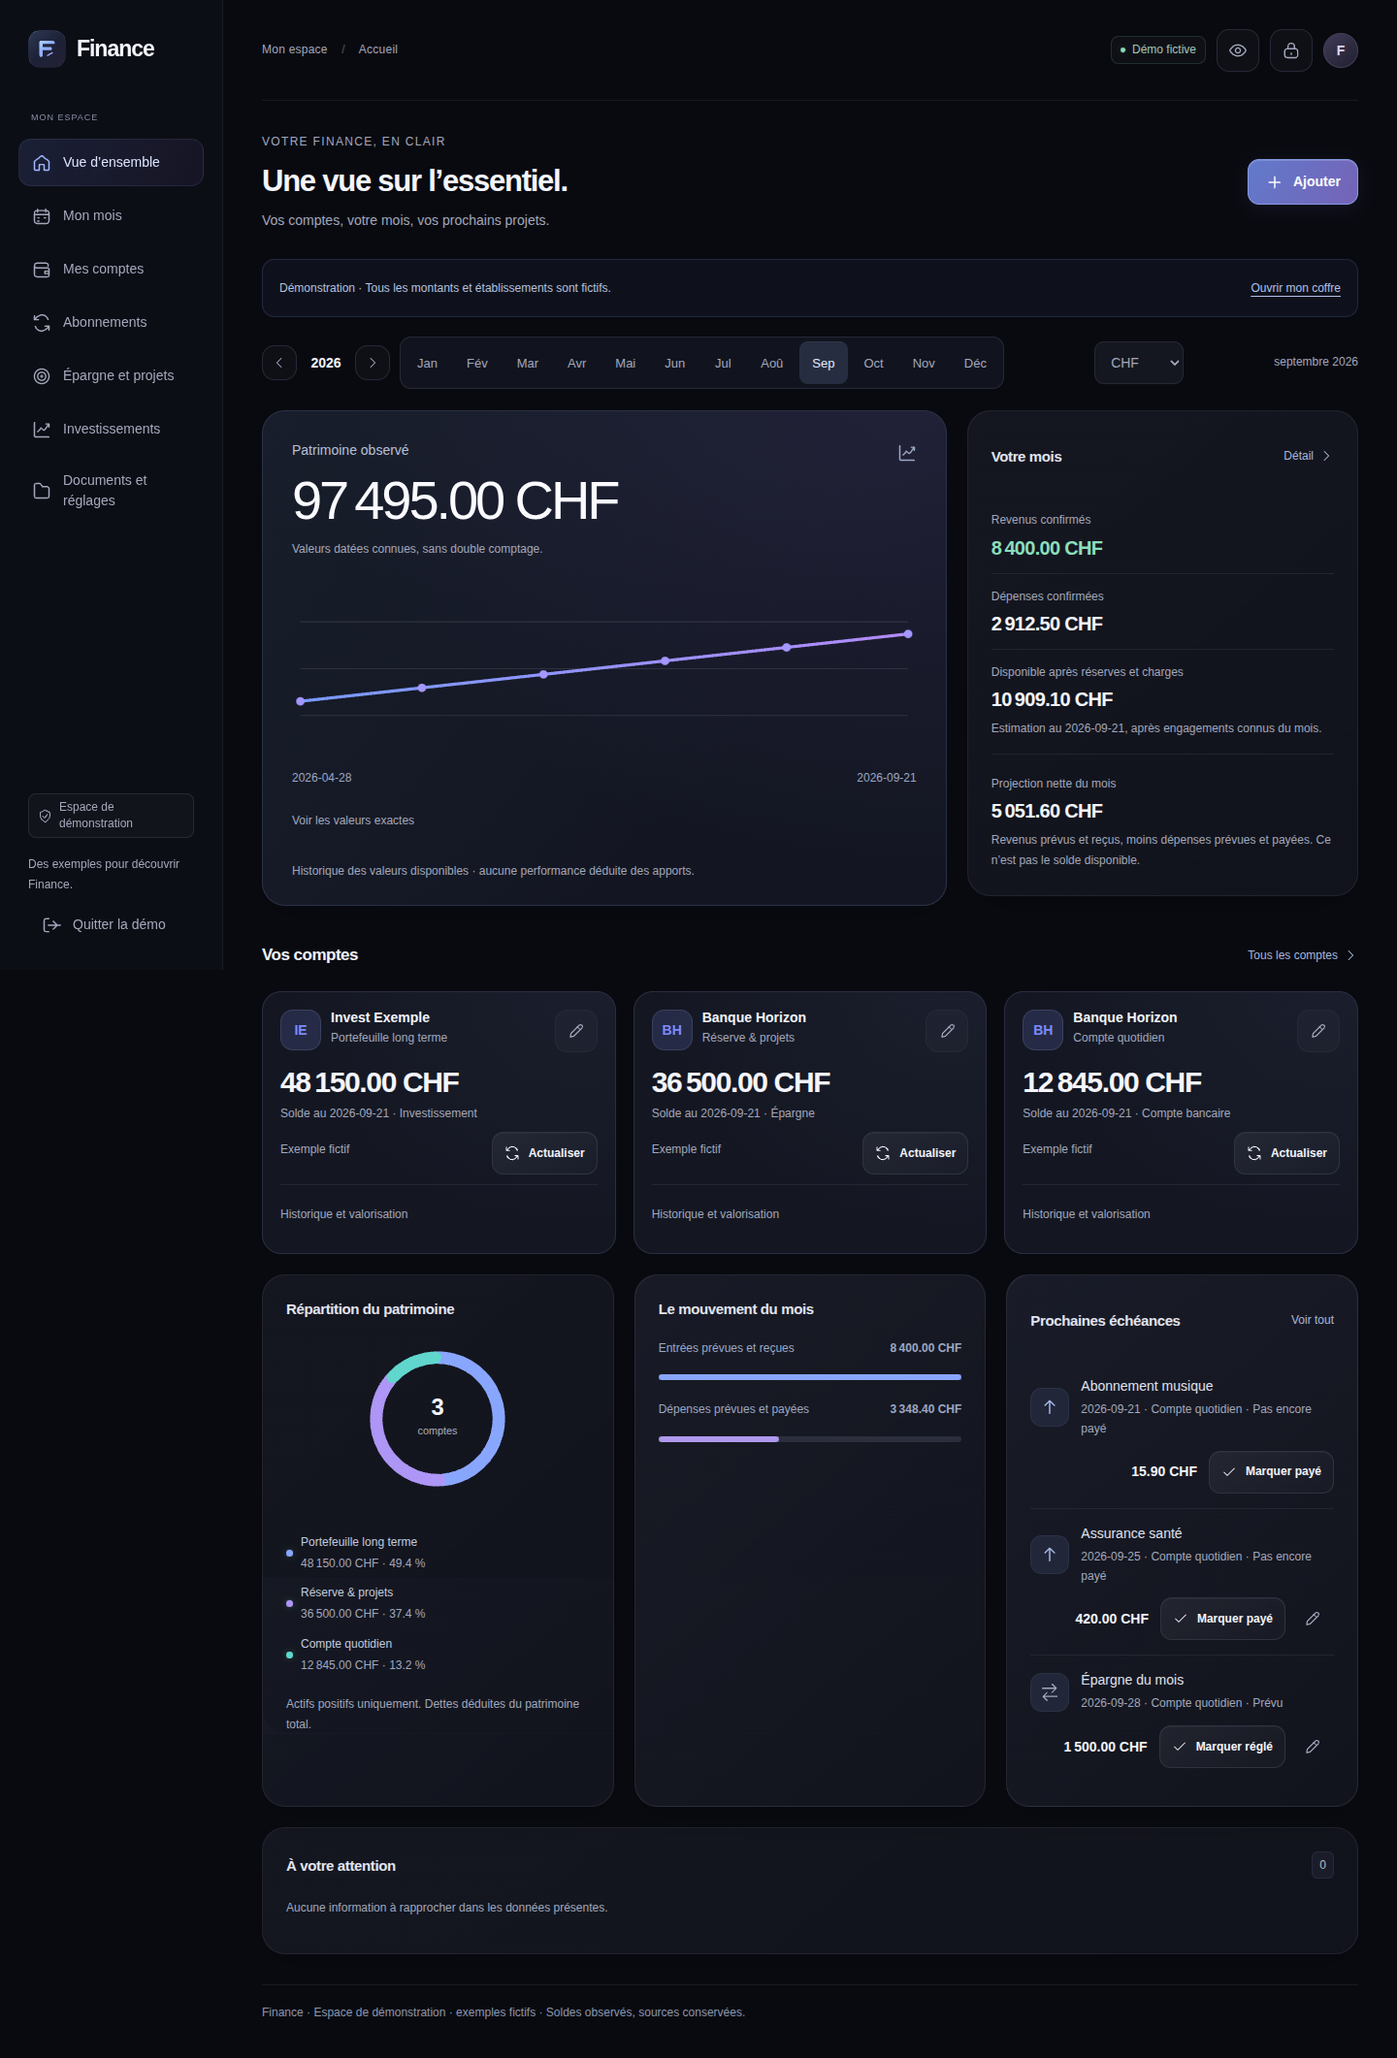
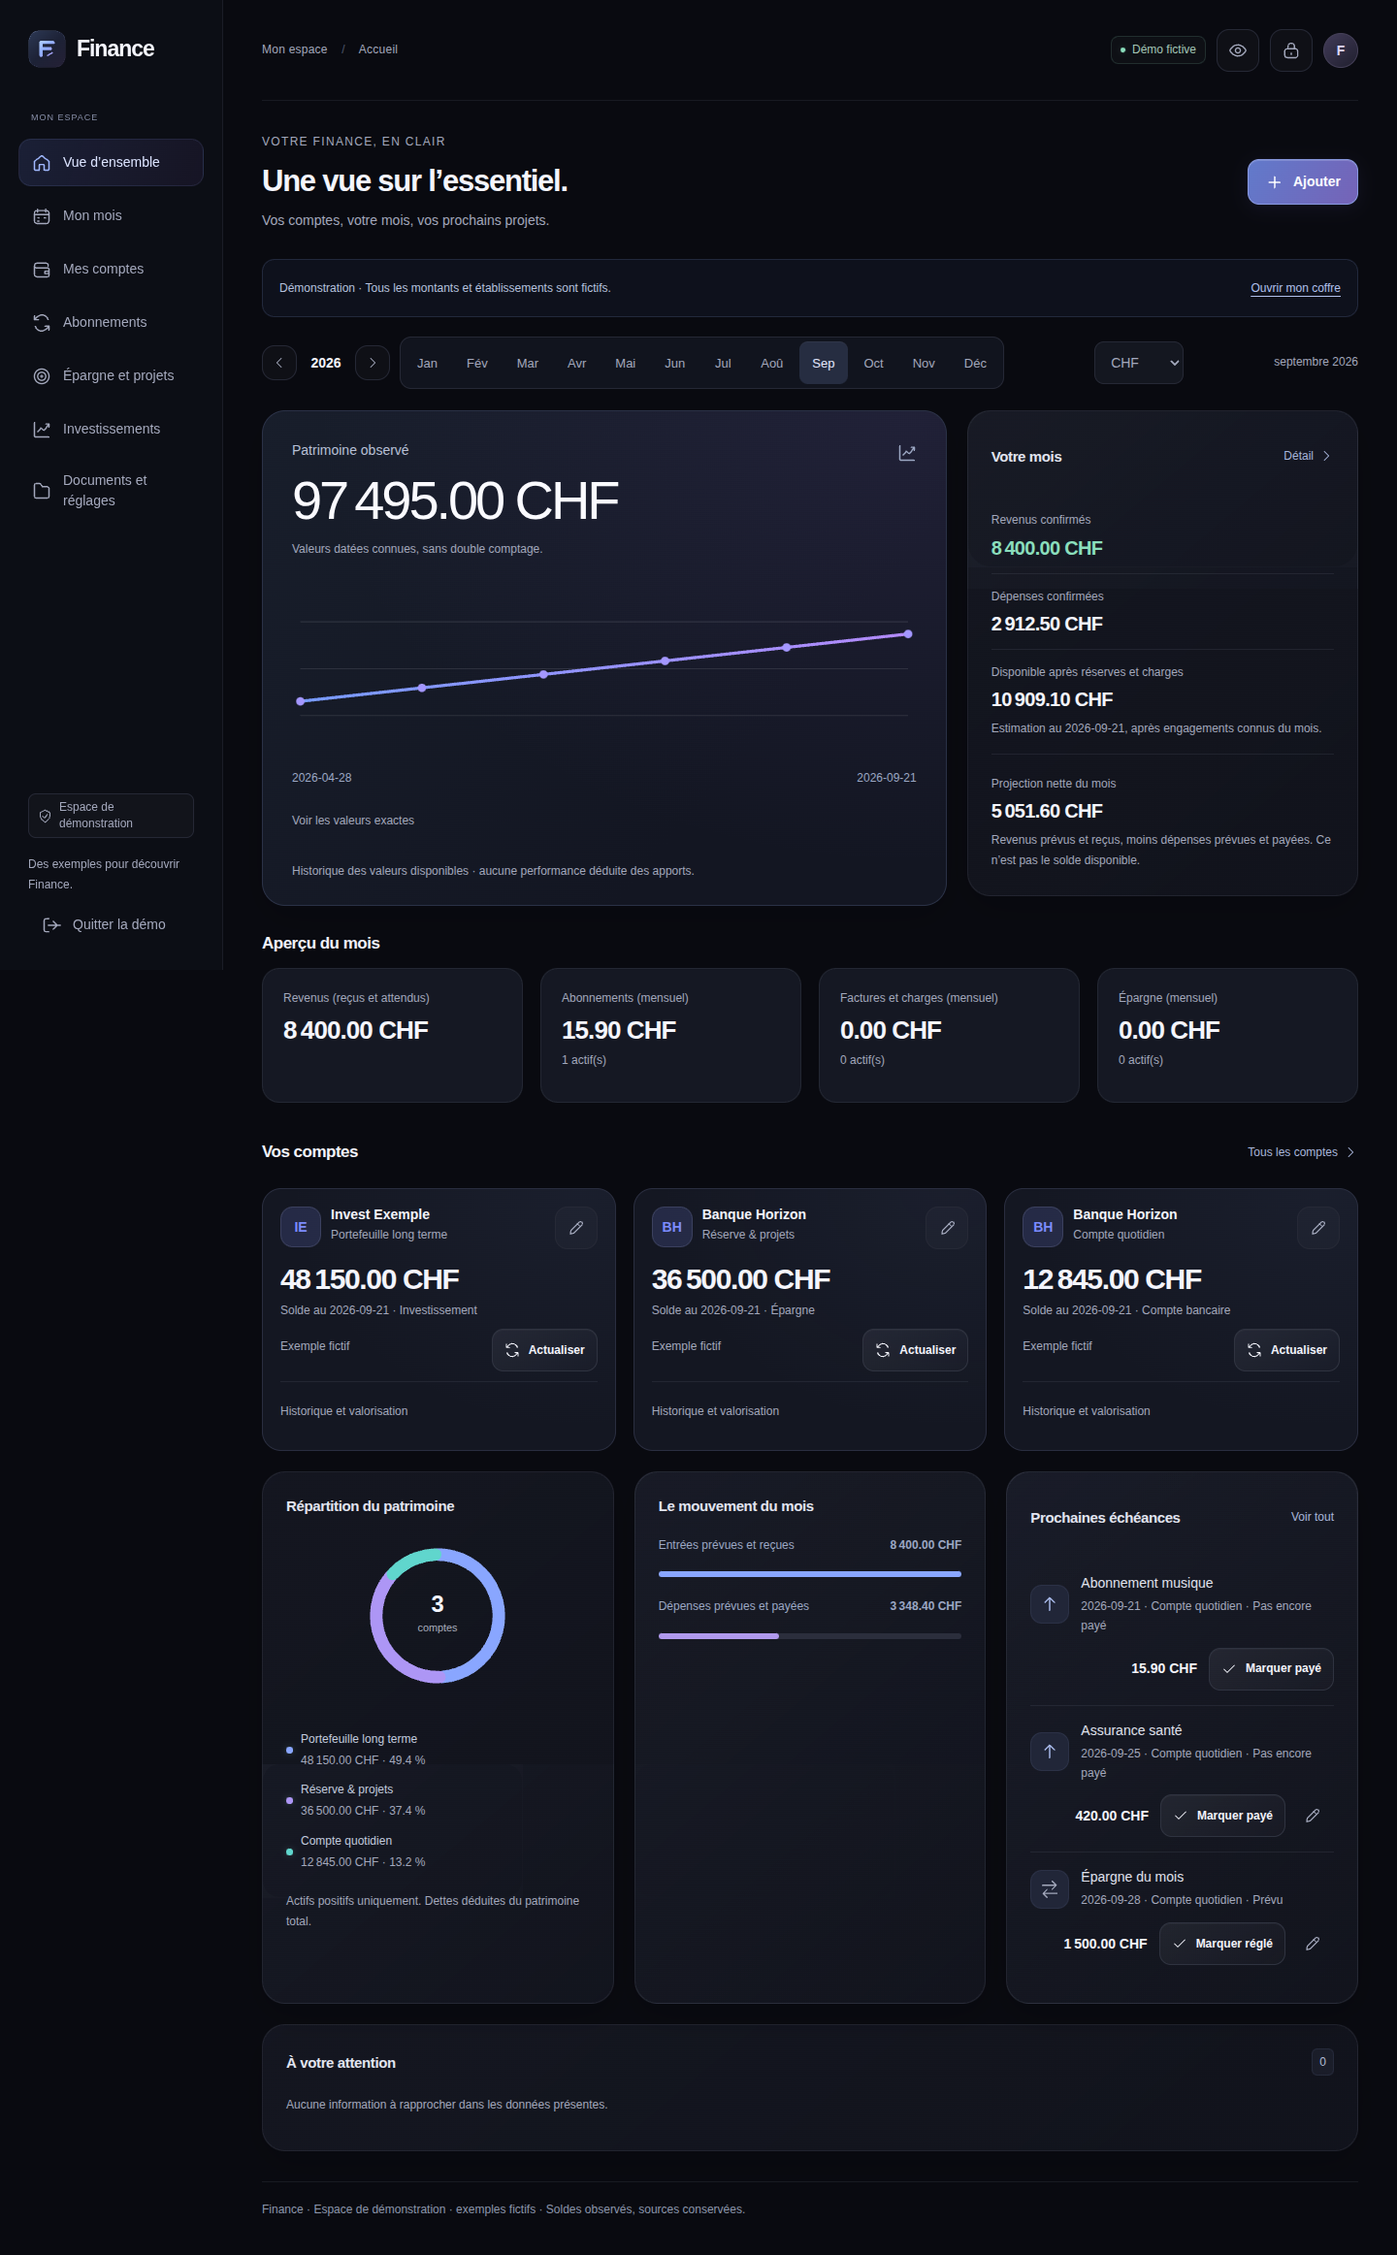
Ajoute la section "Aperçu du mois" (Revenus/Abonnements/Factures/Épargne) sur l'Accueil (#9)
Deuxième volet de la demande de l'utilisateur d'un tableau de bord
inspiré de son suivi Notion personnel : un bloc multi-panneaux au
coup d'oeil, ici Revenus/Abonnements/Factures et charges/Épargne pour
le mois, en réutilisant le calcul déjà éprouvé de monthlyEquivalentMinor
(tri "Montant mensuel" d'Abonnements) plutôt que la cohorte du mois, qui
afficherait 0 la plupart des mois pour une récurrence non mensuelle.

Relu indépendamment par finance-verification avec reproduction réelle
(plusieurs devises, cadences et un taux manquant), aucun défaut trouvé.

Claude-Session: https://claude.ai/code/session_01BRBYP9qFWMSoWkBQrWgN3b

diff --git a/src/App.tsx b/src/App.tsx
@@ -709,6 +709,38 @@ export default function App() {
   );
   const subsCohort = cohortSummary(data, month, currency);
   const subsFlow = recurringFlowSummary(data, month, currency);
+  // Coût mensuel par nature pour l'aperçu de l'Accueil : somme de l'équivalent mensuel de
+  // chaque récurrence active de cette nature, converti vers la devise d'affichage — même
+  // schéma que subsAmountRanking ci-dessous (monthlyEquivalentMinor + convertMinor à la même
+  // date), pas la cohorte du mois (qui vaudrait 0 les mois sans échéance pour une récurrence
+  // trimestrielle ou annuelle). Une seule devise manquante rend le total entier "partiel"
+  // plutôt que d'additionner des montants non comparables.
+  const monthlyEquivalentTotal = (type: Recurrence["recurrenceType"]) => {
+    const at = today();
+    let totalMinor = 0,
+      excluded = 0,
+      count = 0;
+    for (const r of data.recurrences) {
+      if (!r.active || r.recurrenceType !== type) continue;
+      count++;
+      const converted = convertMinor(
+        monthlyEquivalentMinor(r, at),
+        r.currency,
+        currency,
+        data.fxRates,
+        at,
+      );
+      if (converted === null) {
+        excluded++;
+        continue;
+      }
+      totalMinor += converted;
+    }
+    return { totalMinor: excluded > 0 ? null : totalMinor, count, excluded };
+  };
+  const subsMonthlyOverview = monthlyEquivalentTotal("subscription");
+  const billsMonthlyOverview = monthlyEquivalentTotal("bill");
+  const savingMonthlyOverview = monthlyEquivalentTotal("saving");
   const subsMatchesType = (r: Recurrence) =>
     filter === "all" || r.recurrenceType === filter;
   const subsMatchesStatus = (r: Recurrence) => {
@@ -1403,6 +1435,45 @@ export default function App() {
                   </p>
                 </div>
               </Card>
+            </div>
+            <div className="section-heading">
+              <h2>Aperçu du mois</h2>
+            </div>
+            <div className="stat-grid">
+              {[
+                {
+                  label: "Revenus (reçus et attendus)",
+                  value:
+                    summary.incomePlanned === null ||
+                    summary.incomeSettled === null
+                      ? null
+                      : summary.incomePlanned + summary.incomeSettled,
+                  meta: null as string | null,
+                },
+                {
+                  label: "Abonnements (mensuel)",
+                  value: subsMonthlyOverview.totalMinor,
+                  meta: `${subsMonthlyOverview.count} actif(s)`,
+                },
+                {
+                  label: "Factures et charges (mensuel)",
+                  value: billsMonthlyOverview.totalMinor,
+                  meta: `${billsMonthlyOverview.count} actif(s)`,
+                },
+                {
+                  label: "Épargne (mensuel)",
+                  value: savingMonthlyOverview.totalMinor,
+                  meta: `${savingMonthlyOverview.count} actif(s)`,
+                },
+              ].map((s) => (
+                <div className="stat-card" key={s.label}>
+                  <p className="metric-label">{s.label}</p>
+                  <div className="metric-value">
+                    {s.value !== null ? display(s.value) : "—"}
+                  </div>
+                  {s.meta && <p className="meta">{s.meta}</p>}
+                </div>
+              ))}
             </div>
             <div className="section-heading">
               <h2>Vos comptes</h2>

diff --git a/docs/STATUS.md b/docs/STATUS.md
@@ -1,6 +1,6 @@
 # Finance — état de reprise
 
-Mise à jour : 21 septembre 2026 (lots V2.1 à V2.8, correctif du mécanisme de mise à jour PWA et correctif du regroupement des actions de ligne sur mobile tous fusionnés dans `main` ; carte « Le mouvement du mois » ajoutée à l'Accueil, en cours de publication). Ce fichier décrit les faits vérifiés. Le plan V2 décrit le travail suivant ; il ne constitue pas une preuve que ces améliorations sont déjà dans l’application au-delà de ce qui est explicitement marqué développé/testé ci-dessous.
+Mise à jour : 21 septembre 2026 (lots V2.1 à V2.8, correctif du mécanisme de mise à jour PWA, correctif du regroupement des actions de ligne sur mobile et carte « Le mouvement du mois » tous fusionnés dans `main` ; section « Aperçu du mois » ajoutée à l'Accueil, en cours de publication). Ce fichier décrit les faits vérifiés. Le plan V2 décrit le travail suivant ; il ne constitue pas une preuve que ces améliorations sont déjà dans l’application au-delà de ce qui est explicitement marqué développé/testé ci-dessous.
 
 ## Lot V2.1 — Modèle récurrent (développé et testé le 18 septembre 2026)
 
@@ -177,6 +177,18 @@ Relu indépendamment par l'agent `finance-verification` (distinct de l'auteur), 
 
 Preuves : `pnpm run typecheck` (0 erreur), `pnpm run test` (**135/135**, inchangé — branchement UI pur, aucune fonction de domaine modifiée), `pnpm run build` (réussi). Les 9 scénarios `test:e2e` rejoués individuellement par l'auteur et le relecteur (un essai en exécution groupée a montré les plantages Chromium single-process déjà documentés dans ce fichier — dbus/SSL, « browser has been closed » — reconfirmés comme limite d'environnement, pas une régression : les mêmes scénarios passent tous rejoués un par un). Captures 390/834/1440 régénérées et conservées (changement visuel réel) ; les captures des pages non concernées (coffre, projets) ont été écartées du diff car elles ne reflétaient qu'un nouveau rendu du même contenu.
 
+Fusionné dans `main` (commit `525ee77`, PR #8). CI et GitHub Pages vérifiés verts sur ce commit, site public à jour.
+
+## Ajout — section « Aperçu du mois » sur l'Accueil (développé et testé le 21 septembre 2026)
+
+Deuxième volet de la demande de l'utilisateur (tableau de bord Notion personnel « Patrimoine », dont un bloc multi-panneaux « Revenue / Epargne 2026 / Facture 2026 / Abonnements »). Nouvelle section entre « Votre mois » et « Vos comptes » sur l'Accueil : quatre `stat-card` dans un `.stat-grid` (classe déjà existante, déjà responsive — 4 colonnes sur ordinateur, 2 sur tablette, 1 sur mobile, utilisée ailleurs par Mon mois et Abonnements) — Revenus (reçus et attendus, calcul identique à la carte « Votre mois »), Abonnements (mensuel), Factures et charges (mensuel), Épargne (mensuel).
+
+Les trois derniers utilisent une nouvelle fonction locale `monthlyEquivalentTotal(type)` (`src/App.tsx`) : somme, pour les récurrences actives d'une nature donnée, de `monthlyEquivalentMinor(r, today())` convertie vers la devise d'affichage (`convertMinor`) — le même schéma déjà utilisé et testé par le tri « Montant mensuel » de la page Abonnements, pas une nouvelle fonction de domaine. Volontairement pas la cohorte du mois (`cohortSummary`) : une récurrence trimestrielle ou annuelle afficherait 0 la plupart des mois si on utilisait le montant dû ce mois-ci au lieu de l'équivalent mensuel normalisé, qui existe déjà précisément pour ce cas. Une conversion manquante fait passer le total entier à « — » plutôt que de mélanger des montants non comparables ou de les ignorer silencieusement ; le nombre de récurrences actives de cette nature reste affiché séparément.
+
+Relu indépendamment par l'agent `finance-verification` (distinct de l'auteur), avec reproduction indépendante plutôt que lecture seule : scénario construit dans l'app réelle avec plusieurs récurrences actives de natures et devises différentes (abonnement trimestriel EUR, charge annuelle CHF, charge mensuelle USD, épargne CHF, épargne GBP sans taux configuré, récurrence inactive), calcul manuel indépendant confirmant chaque total affiché au centime près ; récurrence inactive jamais comptée ; taux manquant confirmé faire passer le total à « — » (pas 0, pas silencieusement ignoré) ; non-régression du tri « Montant mensuel » de la page Abonnements confirmée sur le même jeu de données ; absence de débordement à 390/834/1440 ; mode « Montants masqués » testé par clic réel. Verdict « conforme, aucun défaut trouvé ».
+
+Preuves : `pnpm run typecheck` (0 erreur), `pnpm run test` (**135/135**, inchangé — aucune fonction de domaine ajoutée, la nouvelle fonction reste locale à `App.tsx`), `pnpm run build` (réussi). Scénarios `test:e2e` touchant l'Accueil et Abonnements rejoués individuellement par l'auteur et le relecteur, tous verts.
+
 ## État réel
 
 | Élément                           | État                                                                                                                                                                   | Résultat et limite                                                                                                                                                                                                                                                                                                                                                                                                                                                                                                       |
@@ -222,7 +234,8 @@ Le rapprochement des données personnelles reste nécessaire avant d’affirmer 
 | V2.8 (livraison finale) livré et fusionné         | PR #5 fusionnée dans `main` (commit `12f1d1d`) ; CI et GitHub Pages verts sur ce commit, site public à jour ; détail dans la section « Lot V2.8 » ci-dessus.                        |
 | Correctif service worker PWA livré et fusionné    | PR #6 fusionnée dans `main` (commit `a466623`) ; CI et GitHub Pages verts sur ce commit ; relu indépendamment avec deux défauts réels trouvés et corrigés ; détail dans la section « Correctif — mise à jour du service worker PWA » ci-dessus. |
 | Correctif regroupement des actions de ligne livré et fusionné | PR #7 fusionnée dans `main` (commit `de04fb4`) ; CI et GitHub Pages vérifiés verts sur ce commit ; développé par `finance-designer`, relu indépendamment par `finance-verification` (un défaut réel trouvé et corrigé, puis revérifié par le coordinateur) ; détail dans la section dédiée ci-dessus. |
-| Carte « Le mouvement du mois » sur l'Accueil en cours | Nouvelle branche/PR (les précédentes sont fusionnées) ; relu indépendamment par `finance-verification`, aucun défaut trouvé ; détail dans la section dédiée ci-dessus. |
+| Carte « Le mouvement du mois » sur l'Accueil livrée et fusionnée | PR #8 fusionnée dans `main` (commit `525ee77`) ; CI et GitHub Pages vérifiés verts sur ce commit ; relu indépendamment par `finance-verification`, aucun défaut trouvé ; détail dans la section dédiée ci-dessus. |
+| Section « Aperçu du mois » sur l'Accueil en cours | Nouvelle branche/PR (les précédentes sont fusionnées) ; relu indépendamment par `finance-verification` avec reproduction indépendante (plusieurs devises, cadences et un cas de taux manquant), aucun défaut trouvé ; détail dans la section dédiée ci-dessus. |
 
 Ces preuves n’attestent pas encore l’implémentation de la V2 au-delà de V2.1. Les totaux de tests, SHA et exécutions doivent être relus après chaque nouveau changement. La [revue indépendante](REVUE_INDEPENDANTE.md) décrit les contrôles de l’application initiale et leurs limites.
 
@@ -241,10 +254,11 @@ Toutes les captures utilisent la démonstration fictive. Elles ne prouvent ni Sa
 
 ## Prochaine action
 
-V2.1 à V2.8, le correctif du service worker PWA et le correctif du regroupement des actions de ligne sont livrés, fusionnés dans `main` (commits `12f1d1d`, `a466623`, `de04fb4`) et déployés sur le site public. Reste à faire :
+V2.1 à V2.8, le correctif du service worker PWA, le correctif du regroupement des actions de ligne et la carte « Le mouvement du mois » sont livrés, fusionnés dans `main` (commits `12f1d1d`, `a466623`, `de04fb4`, `525ee77`) et déployés sur le site public. L'utilisateur a par ailleurs demandé de continuer en autonomie, avec les agents spécialisés, à rapprocher l'app de son tableau de bord Notion personnel de référence (« Patrimoine » : table + donut, barres entrées/sorties, panneaux Revenus/Épargne/Factures/Abonnements) et à finaliser l'app au maximum. Reste à faire :
 
-1. **Publier la carte « Le mouvement du mois » sur l'Accueil** (voir section dédiée ci-dessus) : développée et relue indépendamment, pas encore poussée/fusionnée. À pousser, ouvrir une PR, vérifier la CI, fusionner puis recontrôler le site public déployé.
-2. L'utilisateur a par ailleurs montré son tableau de bord Notion personnel (« Patrimoine ») comme référence visuelle plus large (table + donut, barres entrées/sorties, panneaux Revenus/Épargne/Factures/Abonnements) en demandant quelque chose de similaire en plus simple. La carte ci-dessus répond à l'élément manquant le plus concret (le graphique en barres entrées/sorties, absent de l'Accueil) avec les composants déjà existants et testés. Le reste de la demande (table de comptes façon Notion, panneaux consolidés) reste ouvert : à affiner avec l'utilisateur une fois qu'il aura vu ce premier ajout sur le site publié, plutôt que de deviner une portée plus large sans retour.
+1. **Publier la section « Aperçu du mois » sur l'Accueil** (voir section dédiée ci-dessus) : développée et relue indépendamment, pas encore poussée/fusionnée. À pousser, ouvrir une PR, vérifier la CI, fusionner puis recontrôler le site public déployé.
+2. Avec cette section, les trois éléments concrets et sûrs (sans données inventées) de la référence Notion sont couverts : donut de répartition, barres entrées/sorties, et panneaux Revenus/Épargne/Factures/Abonnements. Un élément vu sur une capture (table mensuelle « Impôt ») reste hors périmètre : aucune donnée fiscale ni modèle correspondant n'existe dans Finance, et en ajouter un exigerait d'inventer une structure sans demande explicite ni source — à clarifier avec l'utilisateur avant toute implémentation plutôt que deviné.
+3. Prochain lot envisagé si l'autonomie se poursuit : badges de nature de compte plus visibles sur les cartes de comptes (type bancaire/épargne/investissement/dette), pour rapprocher encore « Vos comptes » du visuel en table typée de Notion, en réutilisant les icônes et monogrammes déjà livrés (V2.6) plutôt qu'en inventant un nouveau système.
 
 Chaque lot est terminé avec tests ciblés, parcours navigateur, captures fictives et relecture indépendante vérifiés ; la CI distante et le site publié sont recontrôlés après chaque fusion.
 
